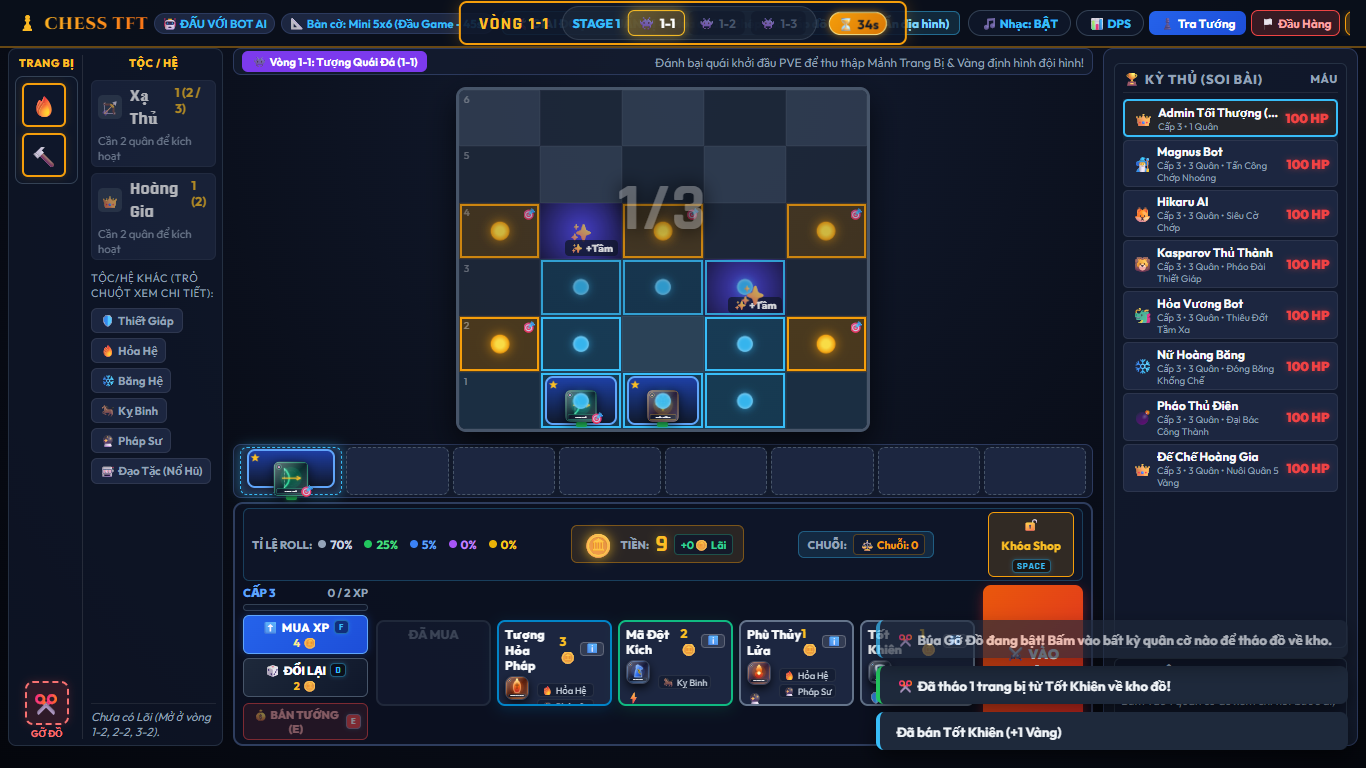
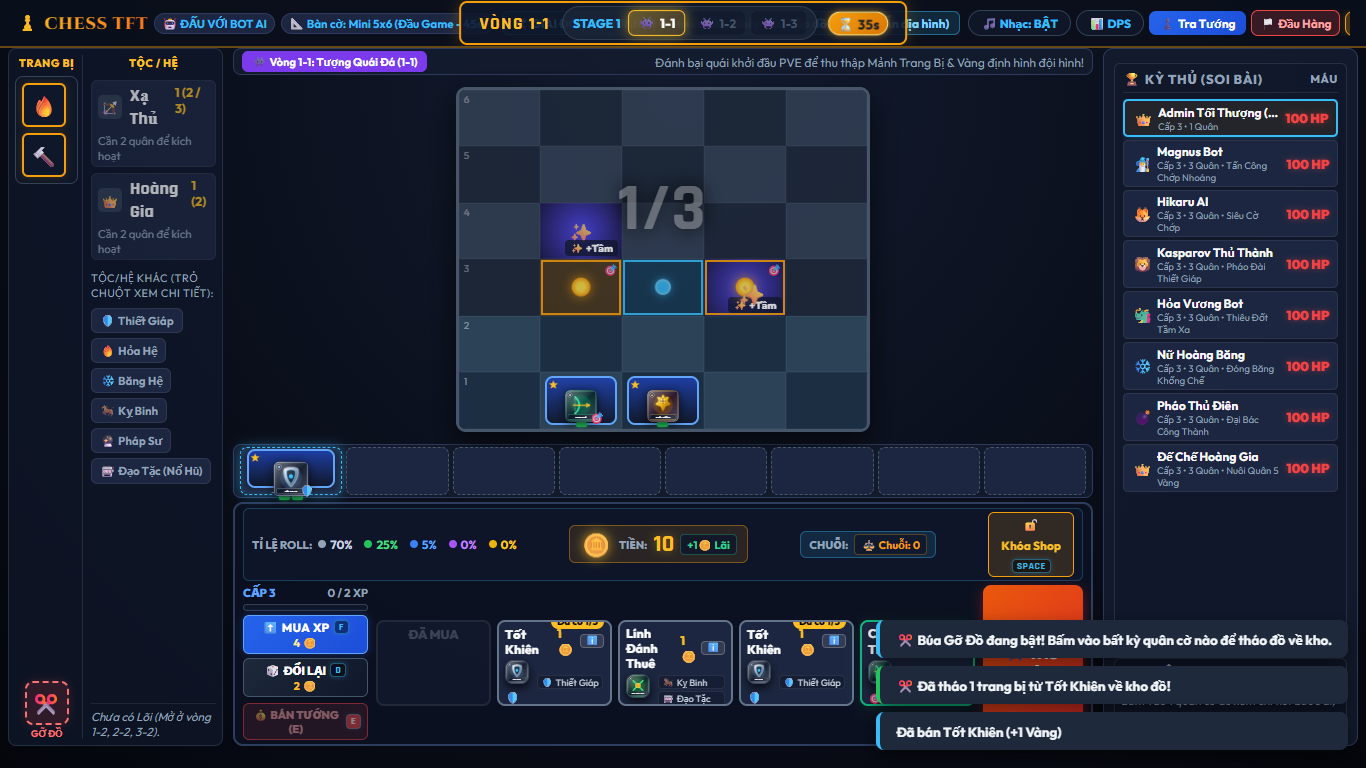
feat(combat): ho tro re chuot xem nuoc di va tam danh quan co ngay trong tran dau (ca phe ta lan phe dich)

diff --git a/js/main.js b/js/main.js
@@ -2118,8 +2118,11 @@ class ChessTFTApp {
                 const tr = r0 + dr;
                 const tc = c0 + dc;
                 if (tr >= 0 && tr < totalRows && tc >= 0 && tc < totalCols) {
-                    const cellIdx = tr * totalCols + tc;
-                    const cellEl = boardEl.children[cellIdx];
+                    let cellEl = boardEl.querySelector(`.board-cell[data-row='${tr}'][data-col='${tc}']`);
+                    if (!cellEl) {
+                        const cellIdx = tr * totalCols + tc;
+                        cellEl = boardEl.children[cellIdx];
+                    }
                     if (cellEl) {
                         if (type === "attack" || type === "pawn-atk" || type === "cannon") {
                             cellEl.classList.add("cell-preview-attack");
@@ -2130,6 +2133,28 @@ class ChessTFTApp {
                 }
             }
         }
+    }
+
+    highlightCombatPieceHover(r, c) {
+        this.clearMovementPreview();
+        if (!this.chess) return;
+        const boardEl = document.getElementById("chess-board");
+        if (!boardEl) return;
+
+        // Use real engine actions for the hovered piece (both player and enemy)
+        const actions = this.chess.getPieceActions(r, c, true);
+        if (!actions || actions.length === 0) return;
+
+        actions.forEach(act => {
+            const cellEl = boardEl.querySelector(`.board-cell[data-row='${act.toR}'][data-col='${act.toC}']`);
+            if (cellEl) {
+                if (act.type === "ranged" || act.type === "melee" || act.type === "pawn-capture" || act.type === "cannon-fire") {
+                    cellEl.classList.add("cell-preview-attack");
+                } else {
+                    cellEl.classList.add("cell-preview-move");
+                }
+            }
+        });
     }
 
     clearMovementPreview() {
@@ -5549,7 +5574,23 @@ class ChessTFTApp {
                     cell.appendChild(pieceEl);
                 }
 
+                cell.addEventListener("mouseenter", () => {
+                    // If no piece is currently selected, hovering over any combat piece (player or enemy) previews its attack/move range
+                    if (!this.selectedCombatSquare && piece) {
+                        cell.classList.add("cell-hover-target");
+                        this.highlightCombatPieceHover(r, c);
+                    }
+                });
+
+                cell.addEventListener("mouseleave", () => {
+                    cell.classList.remove("cell-hover-target");
+                    if (!this.selectedCombatSquare) {
+                        this.clearMovementPreview();
+                    }
+                });
+
                 cell.addEventListener("click", () => {
+                    this.clearMovementPreview();
                     this.handleCombatBoardClick(r, c, piece, matchedAction);
                 });
 

diff --git a/qa_feedback_test.js b/qa_feedback_test.js
@@ -115,6 +115,24 @@ const fs = require('fs');
             console.log("📸 Đã chụp test_hover_preview.png");
         }
 
+        // 7. Test Hover Piece Range in Combat Phase
+        console.log("-> Bắt đầu giao tranh để kiểm tra rê chuột xem tầm đánh trong trận...");
+        const enterCombatBtn = await page.$("#btn-start-combat");
+        if (enterCombatBtn) {
+            await enterCombatBtn.click();
+            await page.waitForTimeout(1500);
+
+            const combatPiece = await page.$("#chess-board .chess-piece");
+            if (combatPiece) {
+                await combatPiece.hover();
+                await page.waitForTimeout(400);
+                const combatPreviewCells = await page.$$eval("#chess-board .cell-preview-move, #chess-board .cell-preview-attack", els => els.length);
+                console.log(`-> Số ô tầm đánh/nước đi khi rê chuột lên quân cờ TRONG TRẬN: ${combatPreviewCells} (Mong muốn: > 0)`);
+                await page.screenshot({ path: path.join(screenshotDir, "test_combat_hover_preview.png") });
+                console.log("📸 Đã chụp test_combat_hover_preview.png");
+            }
+        }
+
         console.log("✅ All functional tests executed successfully!");
 
     } catch (err) {

diff --git a/PROJECT_CONTEXT.md b/PROJECT_CONTEXT.md
@@ -100,7 +100,9 @@ f:\chesstft\
 9. **Tối Ưu Bố Cục Không Gian 1366x768 & Trải Nghiệm Chuẩn Bị (Prep Phase UX) ⏳**:
    - **Tăng Thời Gian Chuẩn Bị (+10s)**: Nâng thời gian chuẩn bị từ 30s lên 40s (mặc định badge hiển thị `⏳ 40s`), giúp người chơi có đủ thời gian mua sắm, roll thẻ bài, quan sát đối thủ và sắp xếp chiến thuật.
    - **Thêm Nhạc Nền Giai Đoạn Chuẩn Bị (Soundtrack Expansion)**: Tích hợp thêm bản nhạc giao hưởng chuẩn bị chiến thuật mới `assets/audio/expedition33_prep.webm` ("Camp Preparation - Tactical Briefing"), tự động luân phiên giữa các vòng/stage cùng bản nhạc truyền thống giúp trải nghiệm âm thanh phong phú và thư giãn hơn.
-   - **Rê Chuột Xem Trước Nước Đi & Ô Tấn Công Tức Thì (Instant Hover Movement Preview)**: Khi rê chuột vào bất kỳ quân cờ nào trên bàn cờ hoặc trên hàng chờ (Bench), bàn cờ lập tức kích hoạt các ô dự báo nước đi (vòng tròn xanh ngọc Arcane Cyan nhấp nháy cho ô di chuyển và tâm ngắm hổ phách Amber Gold cho ô tấn công) mà không cần phải click chọn trước.
+   - **Rê Chuột Xem Trước Nước Đi & Ô Tấn Công Tức Thì Cả Chuẩn Bị & Trong Trận (Instant Hover Movement & Attack Range)**:
+     - **Giai đoạn chuẩn bị:** Khi rê chuột vào bất kỳ quân cờ nào trên sàn đấu hoặc hàng chờ (Bench), bàn cờ lập tức kích hoạt visual indicator hiển thị vùng di chuyển và tầm đánh.
+     - **Trong trận giao tranh (Combat Phase):** Khi rê chuột lên bất kỳ quân cờ nào (cả quân phe ta lẫn quân phe địch), hệ thống gọi trực tiếp engine `this.chess.getPieceActions(r, c, true)` để hiển thị chính xác mọi ô quân đó có thể di chuyển (vòng tròn xanh ngọc `.cell-preview-move`) hoặc tầm tấn công/bắn xa/ăn quân (tâm ngắm hổ phách `.cell-preview-attack`), giúp kỳ thủ nắm bắt nước đi và tầm đe dọa của đối thủ ngay trong lúc chiến đấu mà không làm mất trạng thái chọn quân.
    - **Tối Ưu Hóa Không Gian Sàn Đấu & Cột Phải**: 
      - Mở rộng kích thước bàn cờ trung tâm tại màn hình 1366x768 (`width: min(520px, 54vh)`, `height: min(440px, 45vh)`), khắc phục khoảng trống thừa bên phải bàn cờ.
      - Tự động ẩn cụm đồng hồ Cờ Chớp (`custom-clocks-box`) trong giai đoạn chuẩn bị để dồn không gian cho Bảng Xếp Hạng, Hộp Soi Quân và Biểu đồ DPS, chỉ hiển thị đồng hồ khi bắt đầu vào trận giao tranh.
